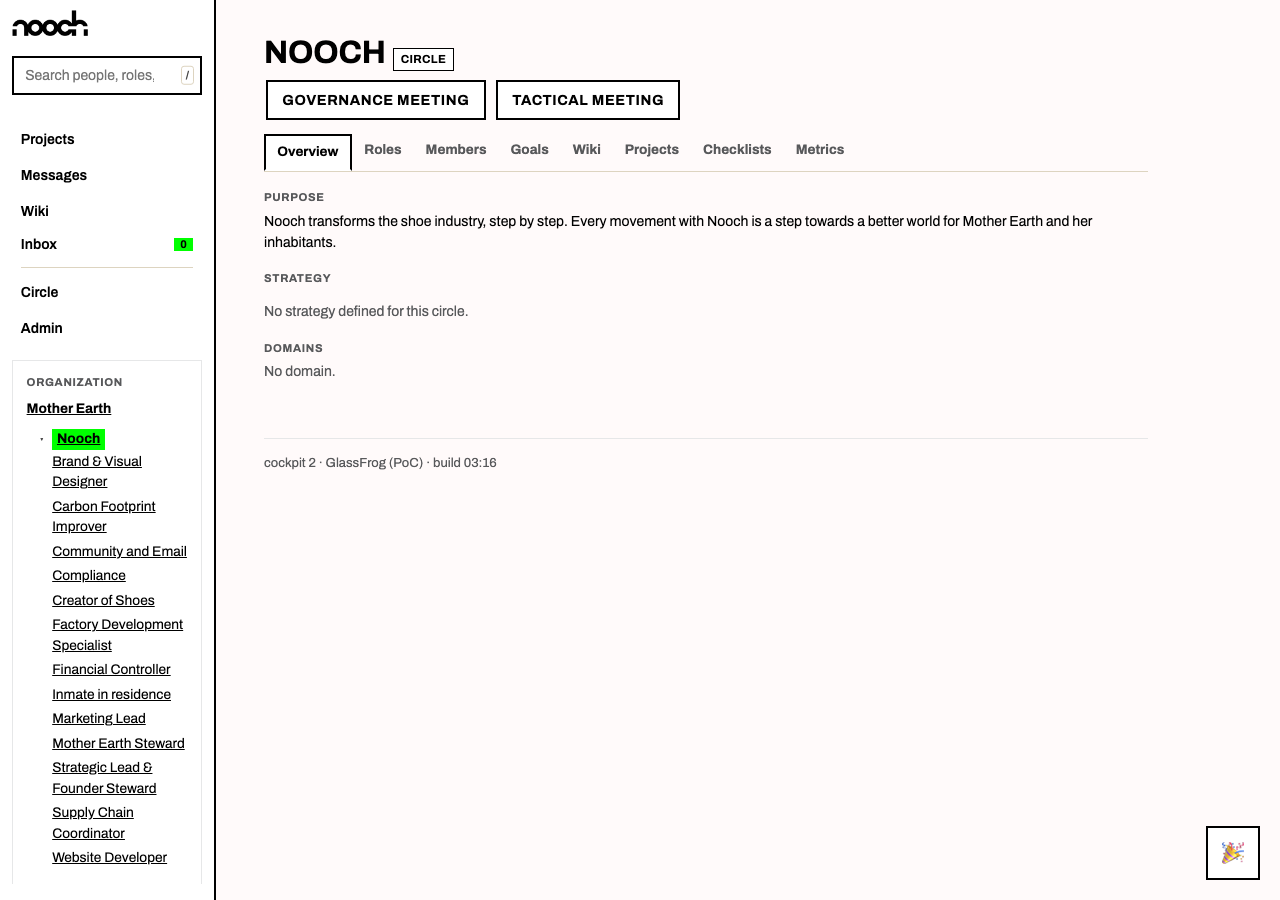
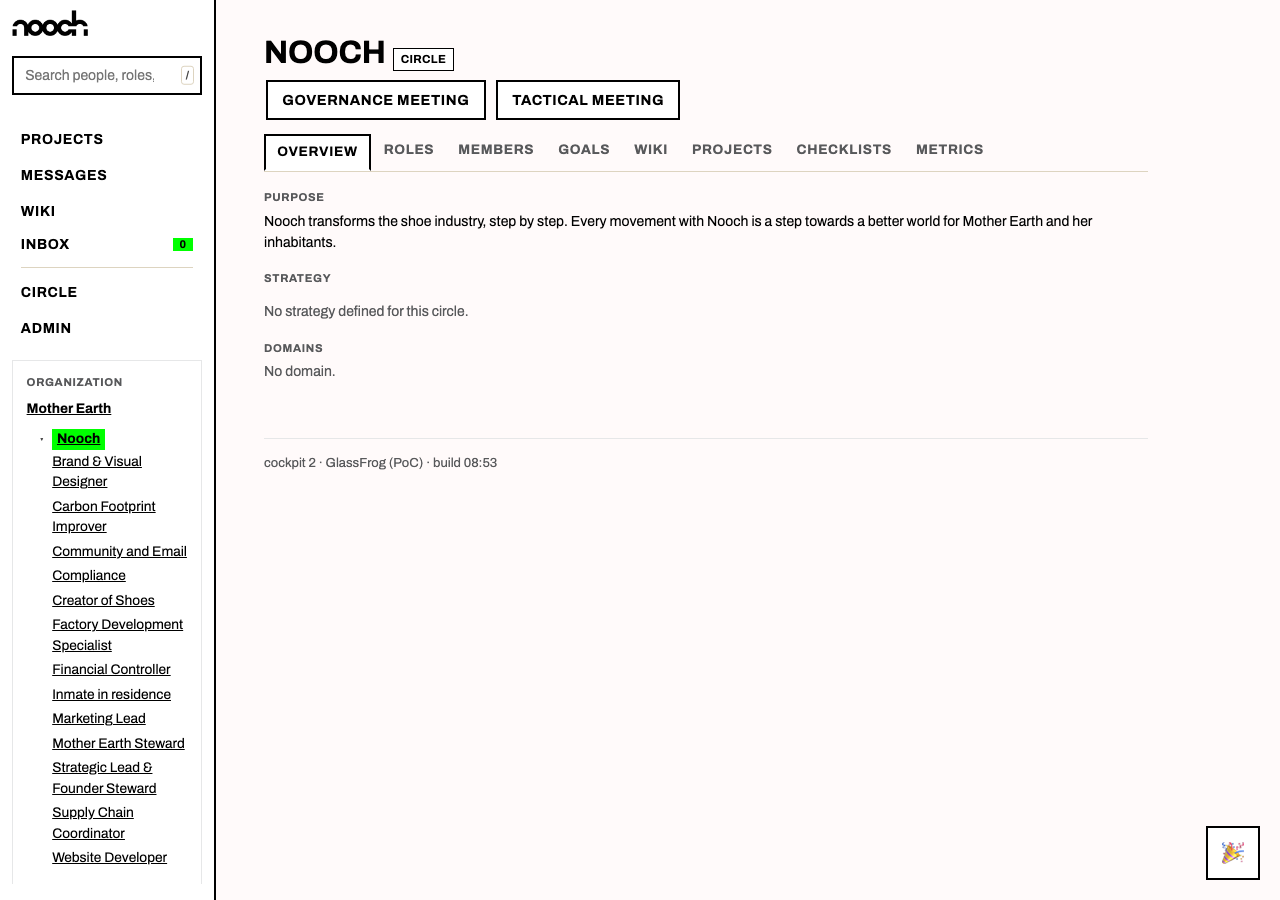
Besluit 3: navigatie en tabbladen in hoofdletters
PROJECTS/MESSAGES/WIKI/INBOX/CIRCLE/ADMIN in de zijbalk en
OVERVIEW/ROLES/MEMBERS/... op de tabbalk. Dezelfde regel die al gold voor
koppen en knoppen, volledig doorgetrokken; de referentie zet SHOP STORE MISSION
CONTACT in de topbar.

De rolnamen in de organisatieboom blijven in normale schrijfwijze: dat is
inhoud en geen navigatie, zelfde grens als bij de projectkaarten op het bord.

De test is structureel: verzamel elk blok in nooch-ui.css dat een navigerend
element aanstuurt (zijbalk, subnav, tabs, link-knoppen) en eis
text-transform:uppercase. Een vijfde navigatie-familie die later bijkomt valt
daarmee ook op. :hover en .on zijn uitgezonderd, die erven het.

Screenshots van circle en messages ververst.

Suite: 4.068 passed, 1 failed, 1 xfailed - de bekende plausible-test.

diff --git a/nooch_village/static/nooch-ui.css b/nooch_village/static/nooch-ui.css
@@ -52,7 +52,10 @@
 .nu .card, .nu .box, .nu .kpi, .nu table {
   border: var(--nu-border); border-radius: 0; background: var(--nu-surface); box-shadow: none; }
 .nu .c2-side { border-right: var(--nu-border); background: var(--nu-surface); }
-.nu .c2-subnav a, .nu .c2-navbtn { border-radius: 0; color: var(--nu-text); }
+/* Navigatie in hoofdletters, net als de koppen en de knoppen: de referentie zet SHOP STORE
+   MISSION CONTACT in de topbar. Dit is geen aparte smaakkeuze maar dezelfde regel doorgetrokken. */
+.nu .c2-subnav a, .nu .c2-navbtn { border-radius: 0; color: var(--nu-text);
+  text-transform: uppercase; letter-spacing: .05em; font-weight: 700; }
 .nu .c2-subnav a:hover, .nu .c2-navbtn:hover { background: var(--nu-text); color: var(--nu-surface); }
 .nu .c2-navct { background: var(--nu-neon); color: var(--nu-text); border-radius: 0; }
 
@@ -102,7 +105,8 @@
   clip-path: polygon(50% 0, 100% 100%, 0 100%); }                                  /* driehoek */
 
 /* ── Tabs, filters, invoer ────────────────────────────────────────────────────────────────── */
-.nu .c2-tabs a { border-radius: 0; font-weight: 700; color: var(--nu-muted); }
+.nu .c2-tabs a { border-radius: 0; font-weight: 700; color: var(--nu-muted);
+  text-transform: uppercase; letter-spacing: .05em; }
 .nu .c2-tabs a.on { border: var(--nu-border); border-bottom-color: var(--nu-surface);
   background: var(--nu-surface); color: var(--nu-text); }
 .nu .cl-filter { border: 1.5px solid var(--nu-text); border-radius: 0; background: var(--nu-surface);

diff --git a/tests/test_fase10_huisstijl.py b/tests/test_fase10_huisstijl.py
@@ -325,3 +325,21 @@ def test_de_rollenlijst_blijft_bereikbaar():
     bron = (VIEWS / "overview.py").read_text()
     assert "_tabbar(" in bron
     assert re.search(r"['\"]roles['\"]", bron, re.I), "de Roles-tab is niet meer te vinden"
+
+
+def test_navigatie_en_tabbladen_staan_in_hoofdletters():
+    """Besluit 3: dezelfde regel als voor koppen en knoppen, volledig doorgetrokken. De referentie
+    zet SHOP STORE MISSION CONTACT in de topbar.
+
+    Structureel: verzamel élk blok in nooch-ui.css dat een navigerend element aanstuurt (zijbalk,
+    subnav, tabs, link-knoppen) en eis dat ze allemaal `text-transform: uppercase` dragen. Zo valt
+    een vijfde navigatie-familie die later bijkomt ook op."""
+    NAVIGEREND = (".c2-subnav a", ".c2-navbtn", ".c2-tabs a", ".addlink", ".vswitch a", ".flink")
+    zonder = []
+    for sel, body in re.findall(r"([^{}]+)\{([^{}]*)\}", _ONTCOM(NU)):
+        raak = [n for n in NAVIGEREND if n in sel]
+        if not raak or ":hover" in sel or ".on" in sel:
+            continue
+        if "text-transform: uppercase" not in body:
+            zonder.append(sel.strip()[:60])
+    assert not zonder, f"navigerend element zonder hoofdletters: {zonder}"

diff --git a/claude/fase10_nachtlog.md b/claude/fase10_nachtlog.md
@@ -394,3 +394,18 @@ Zeven tests, op gedrag geschreven en niet op opmaak: ze bouwen een dorp met meer
 en kijken wat er in en uit de lijst valt.
 
 Suite: 4.067 passed, 1 failed (de bekende), 1 xfailed.
+
+## besluit 3 — hoofdletters in zijbalk-navigatie en tabbladen
+
+`PROJECTS · MESSAGES · WIKI · INBOX · CIRCLE · ADMIN` in de zijbalk, en
+`OVERVIEW · ROLES · MEMBERS · GOALS · WIKI · PROJECTS · CHECKLISTS · METRICS` op de tabbalk.
+
+De rolnamen in de organisatieboom blijven in normale schrijfwijze — dat is inhoud en geen
+navigatie. Zelfde grens als bij de projectkaarten op het bord.
+
+De test is structureel: verzamel élk blok in `nooch-ui.css` dat een navigerend element aanstuurt
+(zijbalk, subnav, tabs, link-knoppen) en eis `text-transform: uppercase`. Een vijfde
+navigatie-familie die later bijkomt valt daarmee ook op. `:hover`- en `.on`-varianten zijn
+uitgezonderd; die erven het van de basisregel.
+
+Suite: 4.068 passed, 1 failed (de bekende), 1 xfailed.
